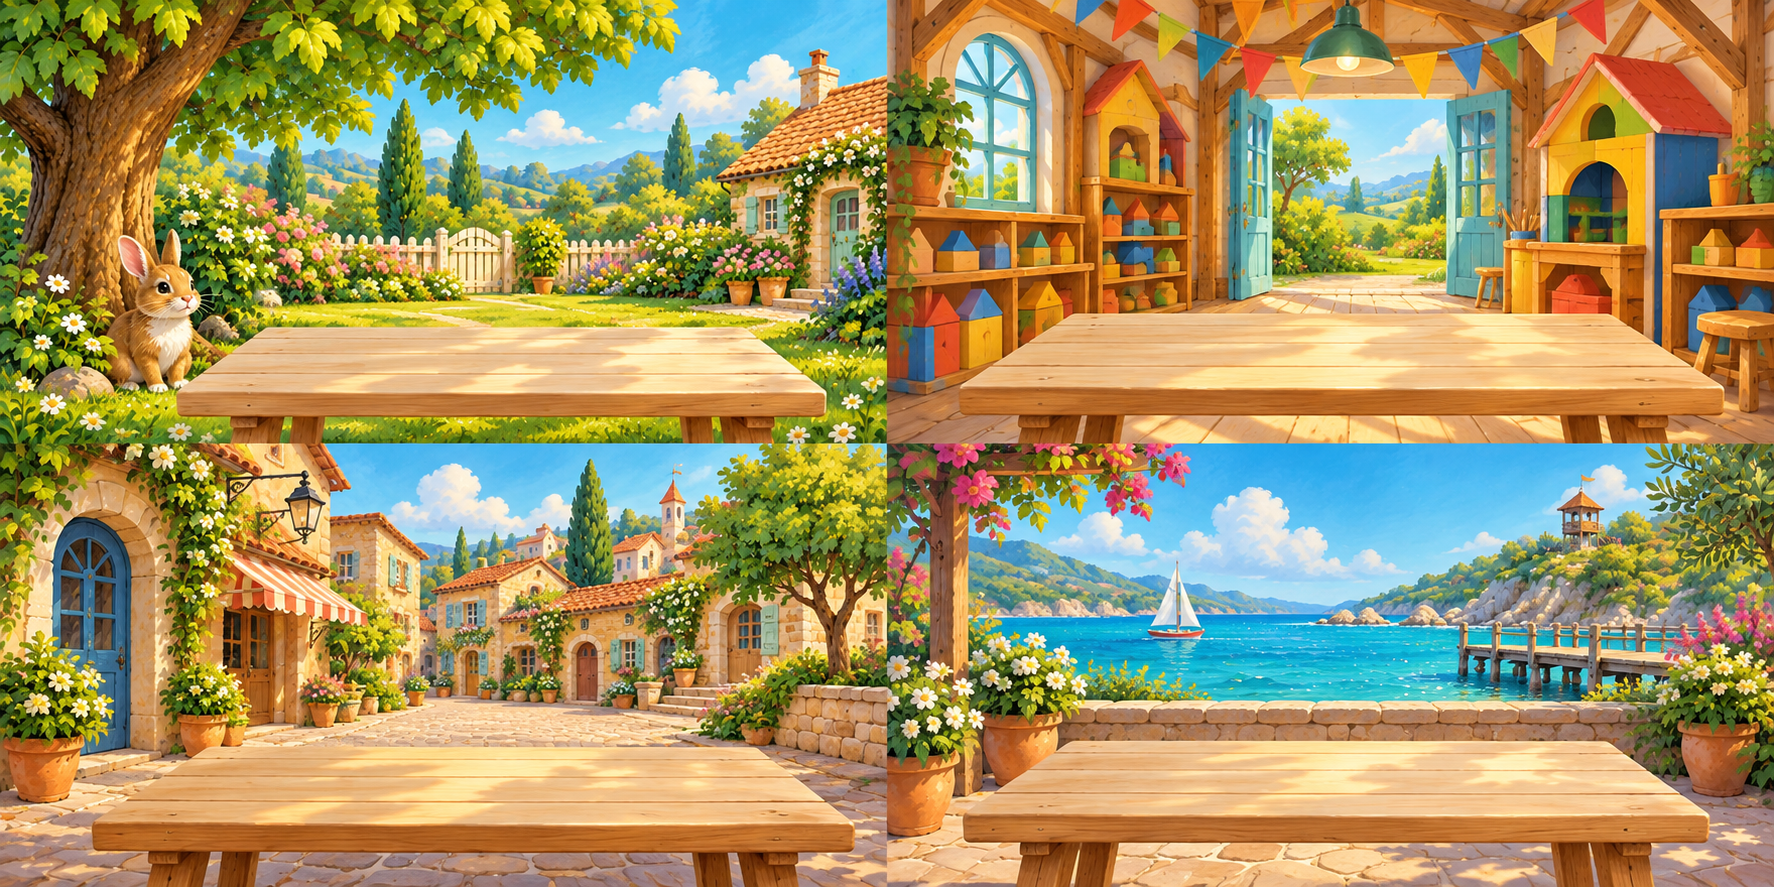
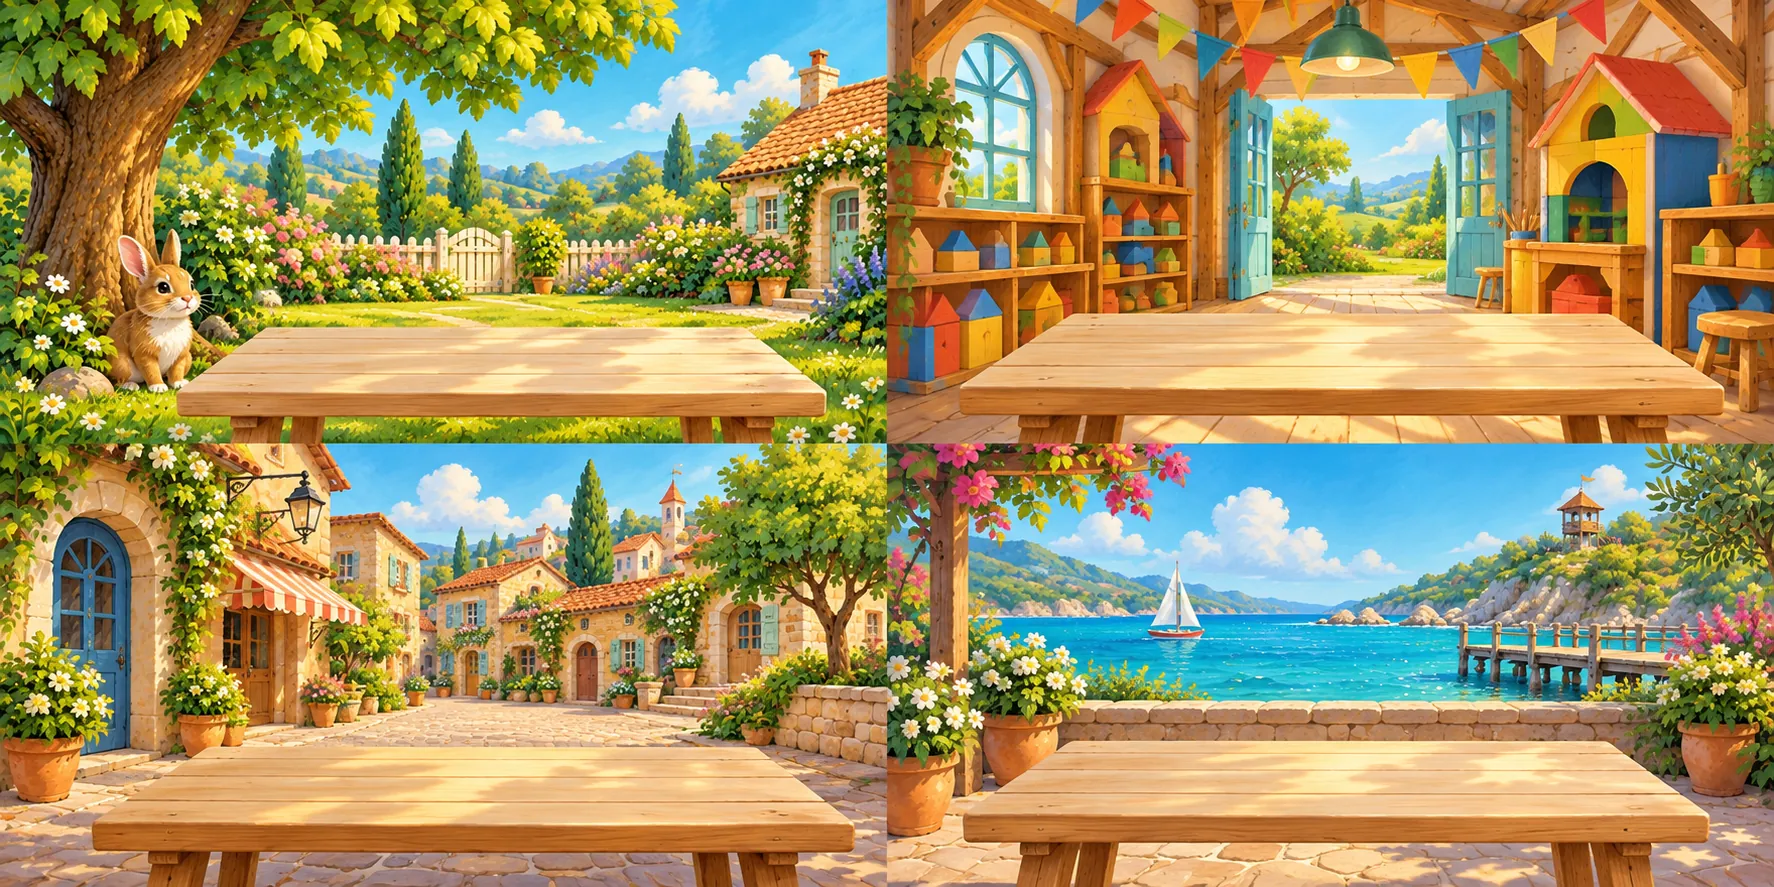
perf(maths): compress the three Maths pictures like the Science art
The Maths atlases were lossless WebP: 5.9 MB, about a tenth of the
release APK. Re-encoded with the settings used for the Science art
(WebP quality 80, alpha 90) at the same size and with transparency,
they are 1.0 MB (islands 2608 -> 429 KB, backdrops 2283 -> 316 KB,
objects 1167 -> 300 KB). The object crops in maths_art.dart are in
source pixels and unchanged.

The owner approved after 2x side-by-side comparisons. The tablet
subject-screen golden changes only inside the Maths picture (no visible
difference); the phone golden and all tests pass, and both content
validators pass.

diff --git a/docs/MATHS_INTEGRATION.md b/docs/MATHS_INTEGRATION.md
@@ -182,11 +182,11 @@ and fixed them on the same branch (PR #6):
 | --- | --- | --- |
 | Counting touches were lost: each touch locked the objects while it was saved. On the emulator seven quick touches counted three and numbered the apples out of order | A touch shows at once; saves run in touch order; a failed save returns to the last saved state as before | Widget test with slow saves; emulator: ten quick "Add one" touches gave ten |
 | On the tablet the workshop answers and next button were below the screen; 90 of 255 questions had answers below the action strip | The workshop scrolls to new answers and buttons; the painted setting is a strip on short screens and left out above charts; short answers share one row | Test over every question with the tablet bars: 251 fit, 4 are 8–36 points from it; emulator |
-| All 280 parent activities had one generic Arabic sentence | `assets/content/maths_parent_ar.json` (draft for the owner) with Arabic for each activity; the build reads it and the validator checks it | Validators, repeat build |
+| All 280 parent activities had one generic Arabic sentence | `assets/content/maths_parent_ar.json` (approved by the owner) with Arabic for each activity; the build reads it and the validator checks it | Validators, repeat build |
 | `drift_progress_store.dart` unformatted; parent retry labels outside the ARB files; scene-kind test skipped Maths; Maths validator not in CI | Formatted; ARB keys; a Maths scene test; CI content job runs the validator | Format, analyzer, tests |
 
-Not changed yet: the three illustration atlases are lossless WebP (5.9 MB);
-re-encoded like the Science art they are about 1.0 MB, waiting for the
-owner to approve a side-by-side comparison. Step titles shown to the child
+The three illustration atlases were lossless WebP (5.9 MB); after the owner
+approved a side-by-side comparison they are re-encoded like the Science art
+(1.0 MB, same size and transparency). Not changed yet: step titles shown to the child
 are generic ("Maths discovery 2"), every Maths sticker shows the same icon,
 and the old-content migration (v1 to v2) covers data that never shipped.

diff --git a/docs/MATHS_ART_V2.md b/docs/MATHS_ART_V2.md
@@ -1,8 +1,11 @@
 # Maths art revision — 12 October 2026
 
 Mode: built-in `image_gen`, three generated illustrations using existing Science
-art as style references. No CLI/API fallback. Runtime assets are pixel-identical
-lossless WebP encodings of the selected PNGs; transparency is preserved.
+art as style references. No CLI/API fallback. The runtime assets were first
+pixel-identical lossless WebP encodings of the selected PNGs (5.9 MB). On
+12 October they were re-encoded like the Science art (WebP quality 80, alpha
+90; same size, transparency preserved), 1.0 MB in all, after the owner
+approved a side-by-side comparison; the lossless files remain in Git history.
 
 ## Saved assets and prompt set
 
